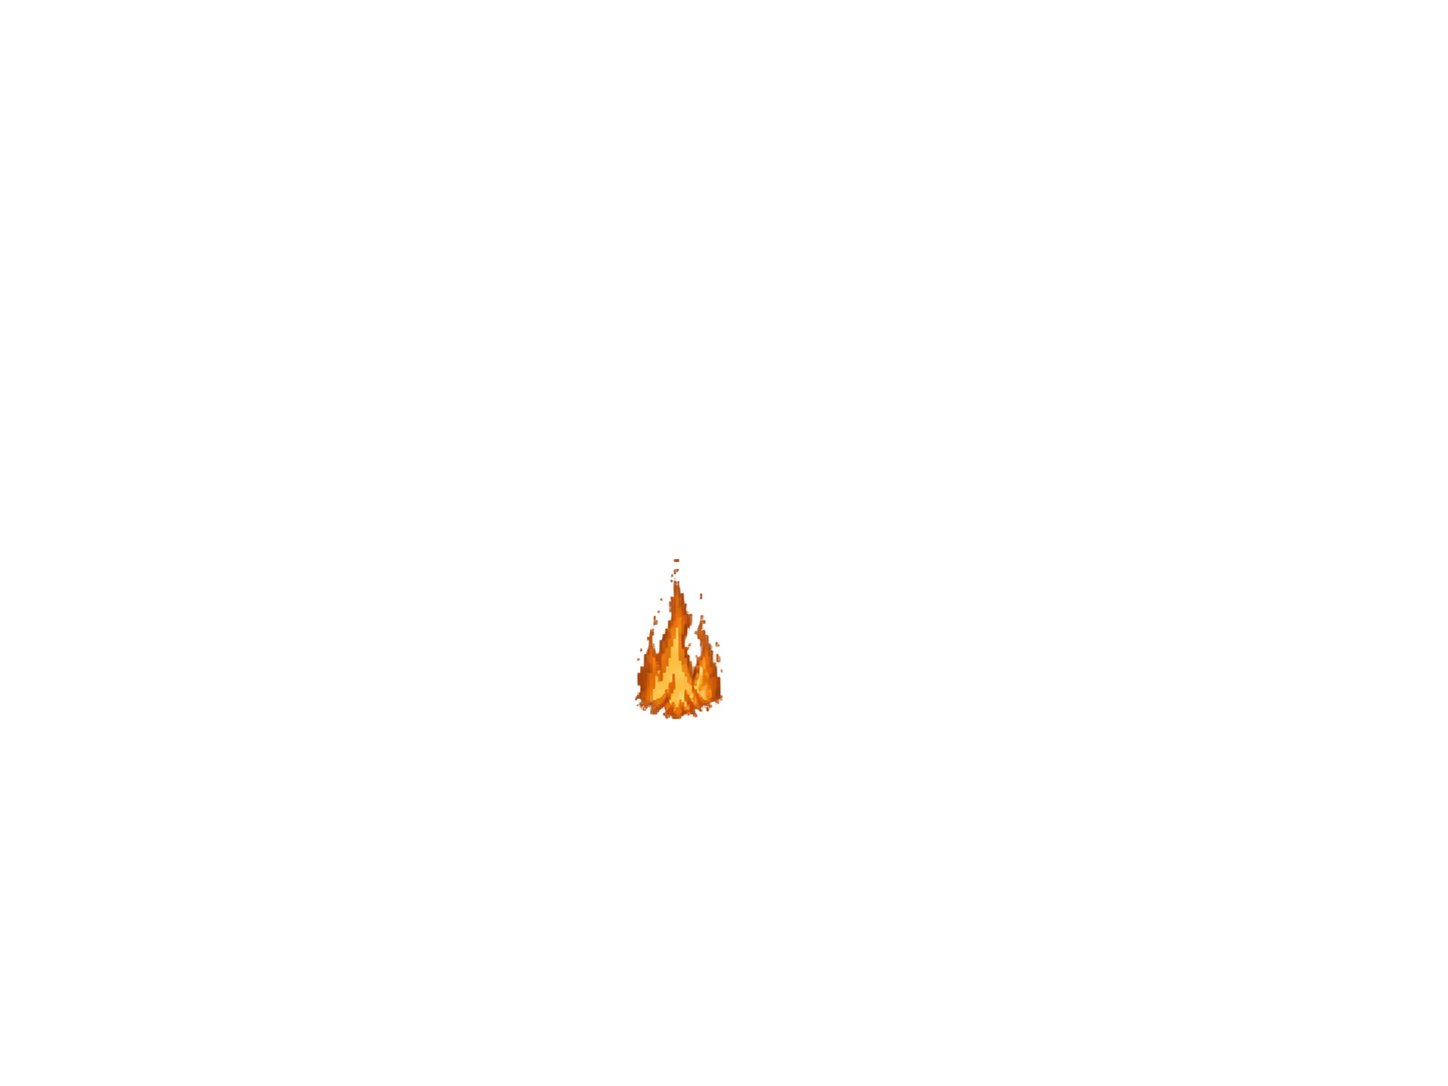
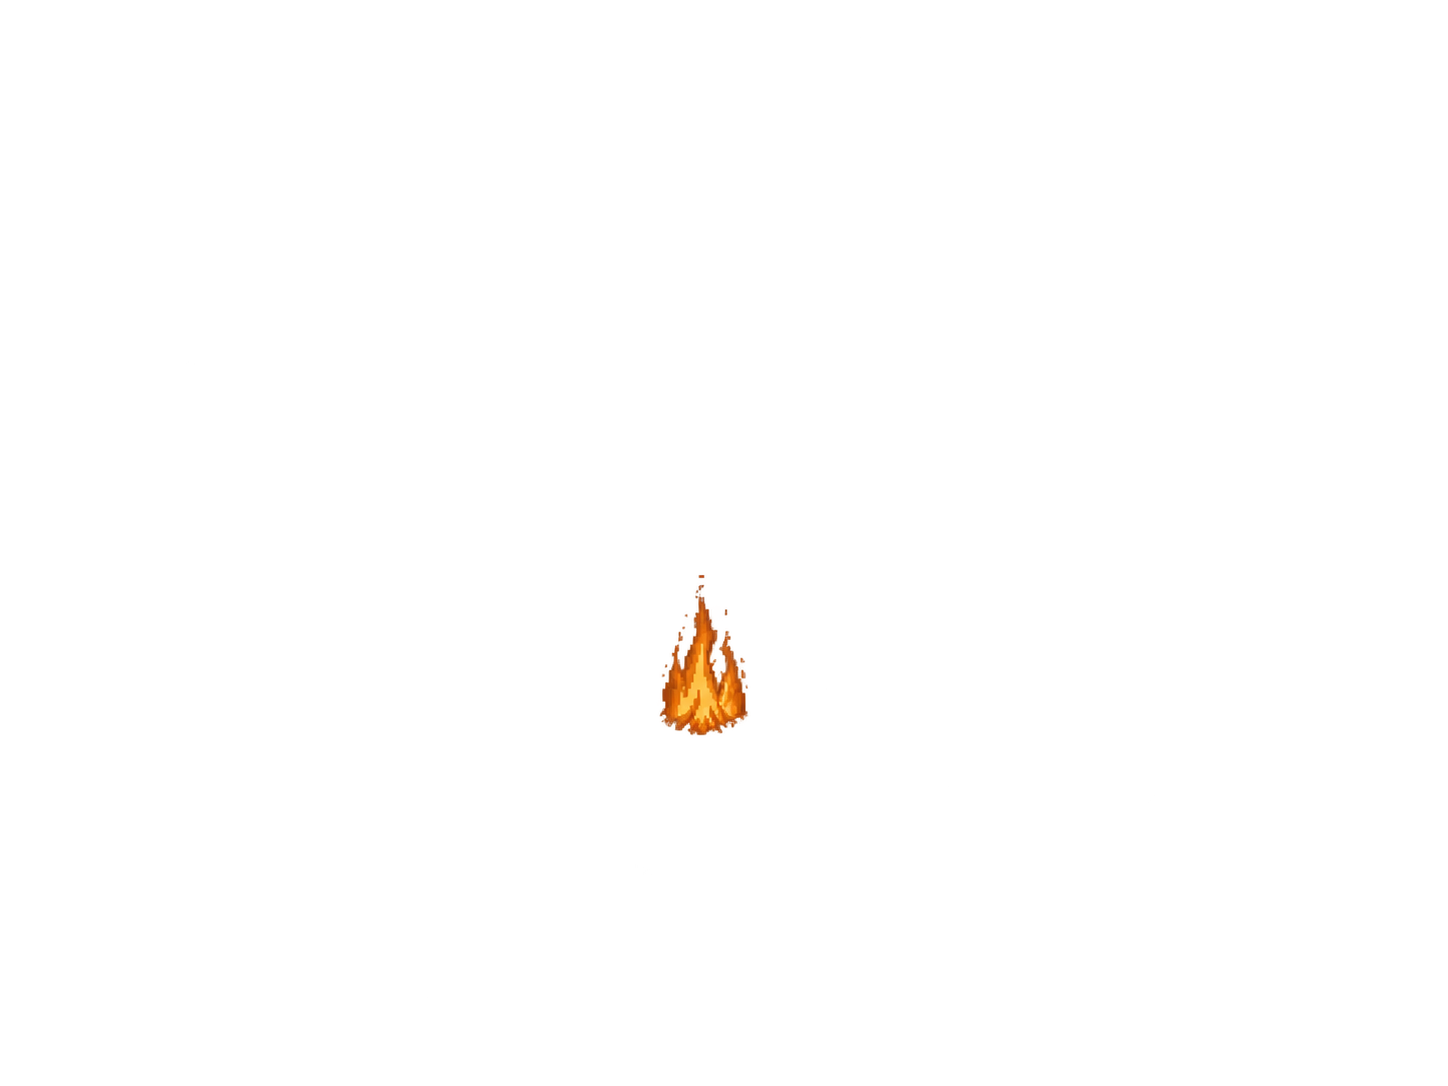
fix: lock fire sprite placement

Changed region(s): [[0.4351, 0.5166, 0.5283, 0.6989]]

diff --git a/src/game/hub/animate.test.ts b/src/game/hub/animate.test.ts
@@ -93,7 +93,7 @@ describe("camp atmosphere contract", () => {
     expect(FIRE_1_OBJECT.label).toBe("FIRE-1");
     expect(FIRE_1_OBJECT.fullCanvas).toBe(true);
     expect(FIRE_1_OBJECT.src).toBe(CAMP_FIRE_TEST_SRC);
-    expect(FIRE_1_OBJECT.bounds).toEqual({ x: 634, y: 559, width: 90, height: 161 });
+    expect(FIRE_1_OBJECT.bounds).toEqual({ x: 659, y: 575, width: 90, height: 161 });
     expect(editorOffset(true, undefined)).toEqual({ offsetX: 0, offsetY: 0 });
     expect(CAMP_FIRE_TEST).toBe(true);
     expect(campPlateSrc(false)).toBe(CAMP_CLEAN_SRC);

diff --git a/src/game/hub/animate.ts b/src/game/hub/animate.ts
@@ -41,7 +41,7 @@ export const CAMP_FIRE_TEST_SRC = "/game/hub/animated/fire/fire-1.png";
 export const FIRE_1_OBJECT: EditableObject = {
   id: "fire-1",
   label: "FIRE-1",
-  bounds: { x: 634, y: 559, width: 90, height: 161 },
+  bounds: { x: 659, y: 575, width: 90, height: 161 },
   src: CAMP_FIRE_TEST_SRC,
   fullCanvas: true,
   zIndex: 1,
